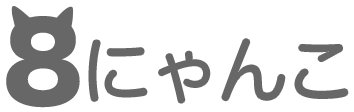
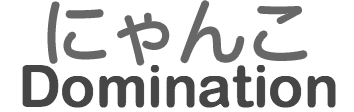
Change 8queen to queen-domination.

diff --git a/dest/js/main.js b/dest/js/main.js
@@ -1,4 +1,4 @@
-var Main, arraysEqual, clearGuide, judge, refreshGuide, removeElem, replaceScene, reset, showMessage, showResult, startTimer, switchGuide, toggle, updateCountLabel, updateJudgeButtonState, updateTimeLabel;
+var Main, arraysEqual, clearGuide, is_affected, judge, refreshGuide, removeElem, replaceScene, reset, showMessage, showResult, startTimer, switchGuide, toggle, updateCountLabel, updateJudgeButtonState, updateTimeLabel;
 
 Main = {
   blocks: [[], [], [], [], [], [], [], []],
@@ -67,18 +67,27 @@ replaceScene = function(id) {
 };
 
 toggle = function(block) {
+  var queen;
   if (block.status) {
     $(block).removeClass('active');
     $(block).removeClass('cat' + Main.count);
     block.status = 0;
     Main.count--;
-    removeElem(Main.queens, [block.x, block.y]);
+    queen = {
+      x: block.x,
+      y: block.y
+    };
+    removeElem(Main.queens, queen);
   } else if (Main.count < 8) {
     $(block).addClass('active');
     $(block).addClass('cat' + Main.count);
     block.status = 1;
     Main.count++;
-    Main.queens.push([block.x, block.y]);
+    queen = {
+      x: block.x,
+      y: block.y
+    };
+    Main.queens.push(queen);
   }
   if (Main.guideEnabled) {
     refreshGuide();
@@ -88,7 +97,7 @@ toggle = function(block) {
 };
 
 updateJudgeButtonState = function() {
-  if (Main.count === 8) {
+  if (Main.count === 5) {
     return $('#judgebutton').removeClass('disabled');
   } else {
     return $('#judgebutton').addClass('disabled', 'disabled');
@@ -96,20 +105,19 @@ updateJudgeButtonState = function() {
 };
 
 judge = function() {
-  var i, j, q, queens, _i, _j, _k, _l, _len, _len1, _ref, _ref1, _ref2, _ref3;
-  queens = Main.queens;
-  for (i = _i = 0, _len = queens.length; _i < _len; i = ++_i) {
-    q = queens[i];
-    for (j = _j = _ref = i + 1, _ref1 = queens.length; _ref <= _ref1 ? _j < _ref1 : _j > _ref1; j = _ref <= _ref1 ? ++_j : --_j) {
-      if (q[0] === queens[j][0] || q[1] === queens[j][1]) {
-        return false;
+  var i, is_ok, j, q, _i, _j, _k, _len, _ref;
+  for (i = _i = 0; _i < 8; i = ++_i) {
+    for (j = _j = 0; _j < 8; j = ++_j) {
+      is_ok = false;
+      _ref = Main.queens;
+      for (_k = 0, _len = _ref.length; _k < _len; _k++) {
+        q = _ref[_k];
+        if (is_affected(i, j, q)) {
+          is_ok = true;
+          continue;
+        }
       }
-    }
-  }
-  for (i = _k = 0, _len1 = queens.length; _k < _len1; i = ++_k) {
-    q = queens[i];
-    for (j = _l = _ref2 = i + 1, _ref3 = queens.length; _ref2 <= _ref3 ? _l < _ref3 : _l > _ref3; j = _ref2 <= _ref3 ? ++_l : --_l) {
-      if ((queens[j][1] === -queens[j][0] + q[1] + q[0]) || (queens[j][1] === queens[j][0] + q[1] - q[0])) {
+      if (!is_ok) {
         return false;
       }
     }
@@ -117,8 +125,20 @@ judge = function() {
   return true;
 };
 
+is_affected = function(x, y, queen) {
+  var diagonal, horizon, nx, ny, qx, qy, vertical;
+  nx = x + 1;
+  ny = y + 1;
+  qx = queen.x + 1;
+  qy = queen.y + 1;
+  horizon = qx === nx;
+  vertical = qy === ny;
+  diagonal = (ny + nx === qx + qy) || (nx - ny === qx - qy);
+  return horizon || vertical || diagonal;
+};
+
 updateCountLabel = function() {
-  return $('#countlabel').html('×' + Main.count + '/8');
+  return $('#countlabel').html('×' + Main.count + '/5');
 };
 
 updateTimeLabel = function() {
@@ -153,8 +173,7 @@ reset = function() {
     g.remove();
   }
   Main.guides = [];
-  updateJudgeButtonState();
-  return console.log(Main.queens);
+  return updateJudgeButtonState();
 };
 
 showMessage = function(mes) {
@@ -189,7 +208,7 @@ switchGuide = function() {
 };
 
 refreshGuide = function() {
-  var block, guide, i, mark, q, queens, x, y, _i, _len, _results;
+  var block, guide, i, q, queens, x, y, _i, _len, _results;
   clearGuide();
   queens = Main.queens;
   _results = [];
@@ -199,55 +218,39 @@ refreshGuide = function() {
       var _j, _results1;
       _results1 = [];
       for (x = _j = 0; _j < 8; x = ++_j) {
-        if (x !== q[1]) {
+        if (x !== q.y) {
           guide = $('<div>').addClass('guide');
-          guide.x = q[0];
+          guide.x = q.x;
           guide.y = x;
-          block = $(Main.blocks[q[0]][x]);
+          block = $(Main.blocks[q.x][x]);
           block.append(guide);
-          if (block.hasClass('active')) {
-            mark = $('<div>').addClass('mark');
-            $(guide).append(mark);
-          }
           Main.guides.push(guide);
         }
-        if (x !== q[0]) {
+        if (x !== q.x) {
           guide = $('<div>').addClass('guide');
           guide.x = x;
-          guide.y = q[1];
-          block = $(Main.blocks[x][q[1]]);
+          guide.y = q.y;
+          block = $(Main.blocks[x][q.y]);
           block.append(guide);
-          if (block.hasClass('active')) {
-            mark = $('<div>').addClass('mark');
-            $(guide).append(mark);
-          }
           Main.guides.push(guide);
         }
-        if (x !== q[0]) {
-          y = -x + q[1] + q[0];
+        if (x !== q.x) {
+          y = -x + q.x + q.y;
           if ((0 <= y && y < 8)) {
             guide = $('<div>').addClass('guide');
             guide.x = x;
             guide.y = y;
             block = $(Main.blocks[x][y]);
             block.append(guide);
-            if (block.hasClass('active')) {
-              mark = $('<div>').addClass('mark');
-              $(guide).append(mark);
-            }
             Main.guides.push(guide);
           }
-          y = x + q[1] - q[0];
+          y = x + q.y - q.x;
           if ((0 <= y && y < 8)) {
             guide = $('<div>').addClass('guide');
             guide.x = x;
             guide.y = y;
             block = $(Main.blocks[x][y]);
             block.append(guide);
-            if (block.hasClass('active')) {
-              mark = $('<div>').addClass('mark');
-              $(guide).append(mark);
-            }
             _results1.push(Main.guides.push(guide));
           } else {
             _results1.push(void 0);
@@ -303,7 +306,6 @@ arraysEqual = function(arrayA, arrayB) {
     v = arrayA[i];
     a = arrayA[i];
     b = arrayB[i];
-    console.log(a + ',' + b);
     if ((a instanceof Array) && (b instanceof Array)) {
       if (!arraysEqual(a, b)) {
         return false;

diff --git a/dest/html/index.html b/dest/html/index.html
@@ -11,7 +11,10 @@
     <div id="game">
       <div id="intro" class="overlay">
         <div class="title"></div>
-        <div class="description">ほげ<br>ふが<br>説明<br>説明<br>説明<br>説明<br>説明<br>説明<br>説明<br>説明<br>説明<br></div>
+        <div class="description">
+          "にゃんこDomination"は，チェスを使ったパズルゲーム<br>"Queen Domination"の猫版です。<br>
+          チェスのQueenの動きが出来る猫を５匹使って，<br> 盤面６４マス全てを支配して下さい！ <br>
+        </div>
         <div id="startbutton" class="ui green button">スタート</div>
       </div>
       <div id="message" class="overlay">
